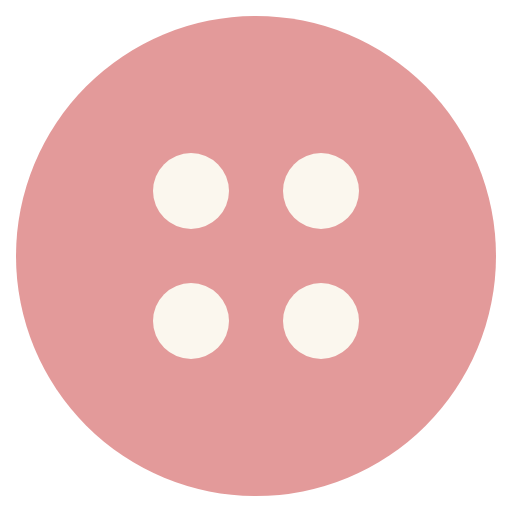
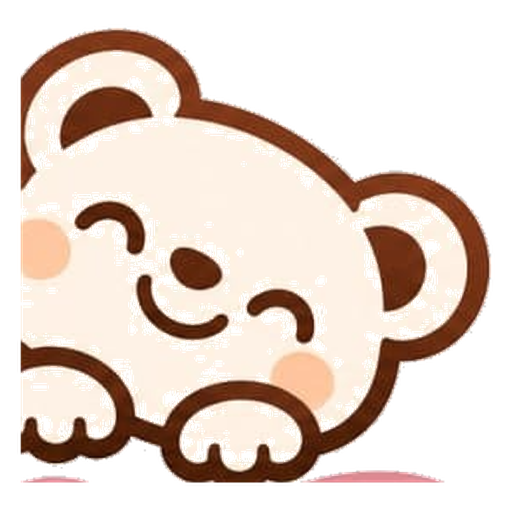
updated soft snuggle project

diff --git a/components/Navbar.tsx b/components/Navbar.tsx
@@ -113,7 +113,7 @@ export function Navbar() {
               </div>
 
               <Link href="/" className="flex items-center" aria-label="Veviba home">
-                <Logo className="h-10 sm:h-11" />
+                <Logo className="h-14 sm:h-16" />
               </Link>
 
               <div className="flex items-center justify-end gap-0.5 sm:gap-2 md:gap-5 lg:gap-7">

diff --git a/components/art/Logo.tsx b/components/art/Logo.tsx
@@ -8,8 +8,8 @@ export function Logo({ className = "h-9" }: Props) {
     <img
       src="/logo.webp"
       alt="Veviba"
-      width={586}
-      height={156}
+      width={1111}
+      height={543}
       className={`w-auto select-none object-contain ${className}`}
       draggable={false}
     />
